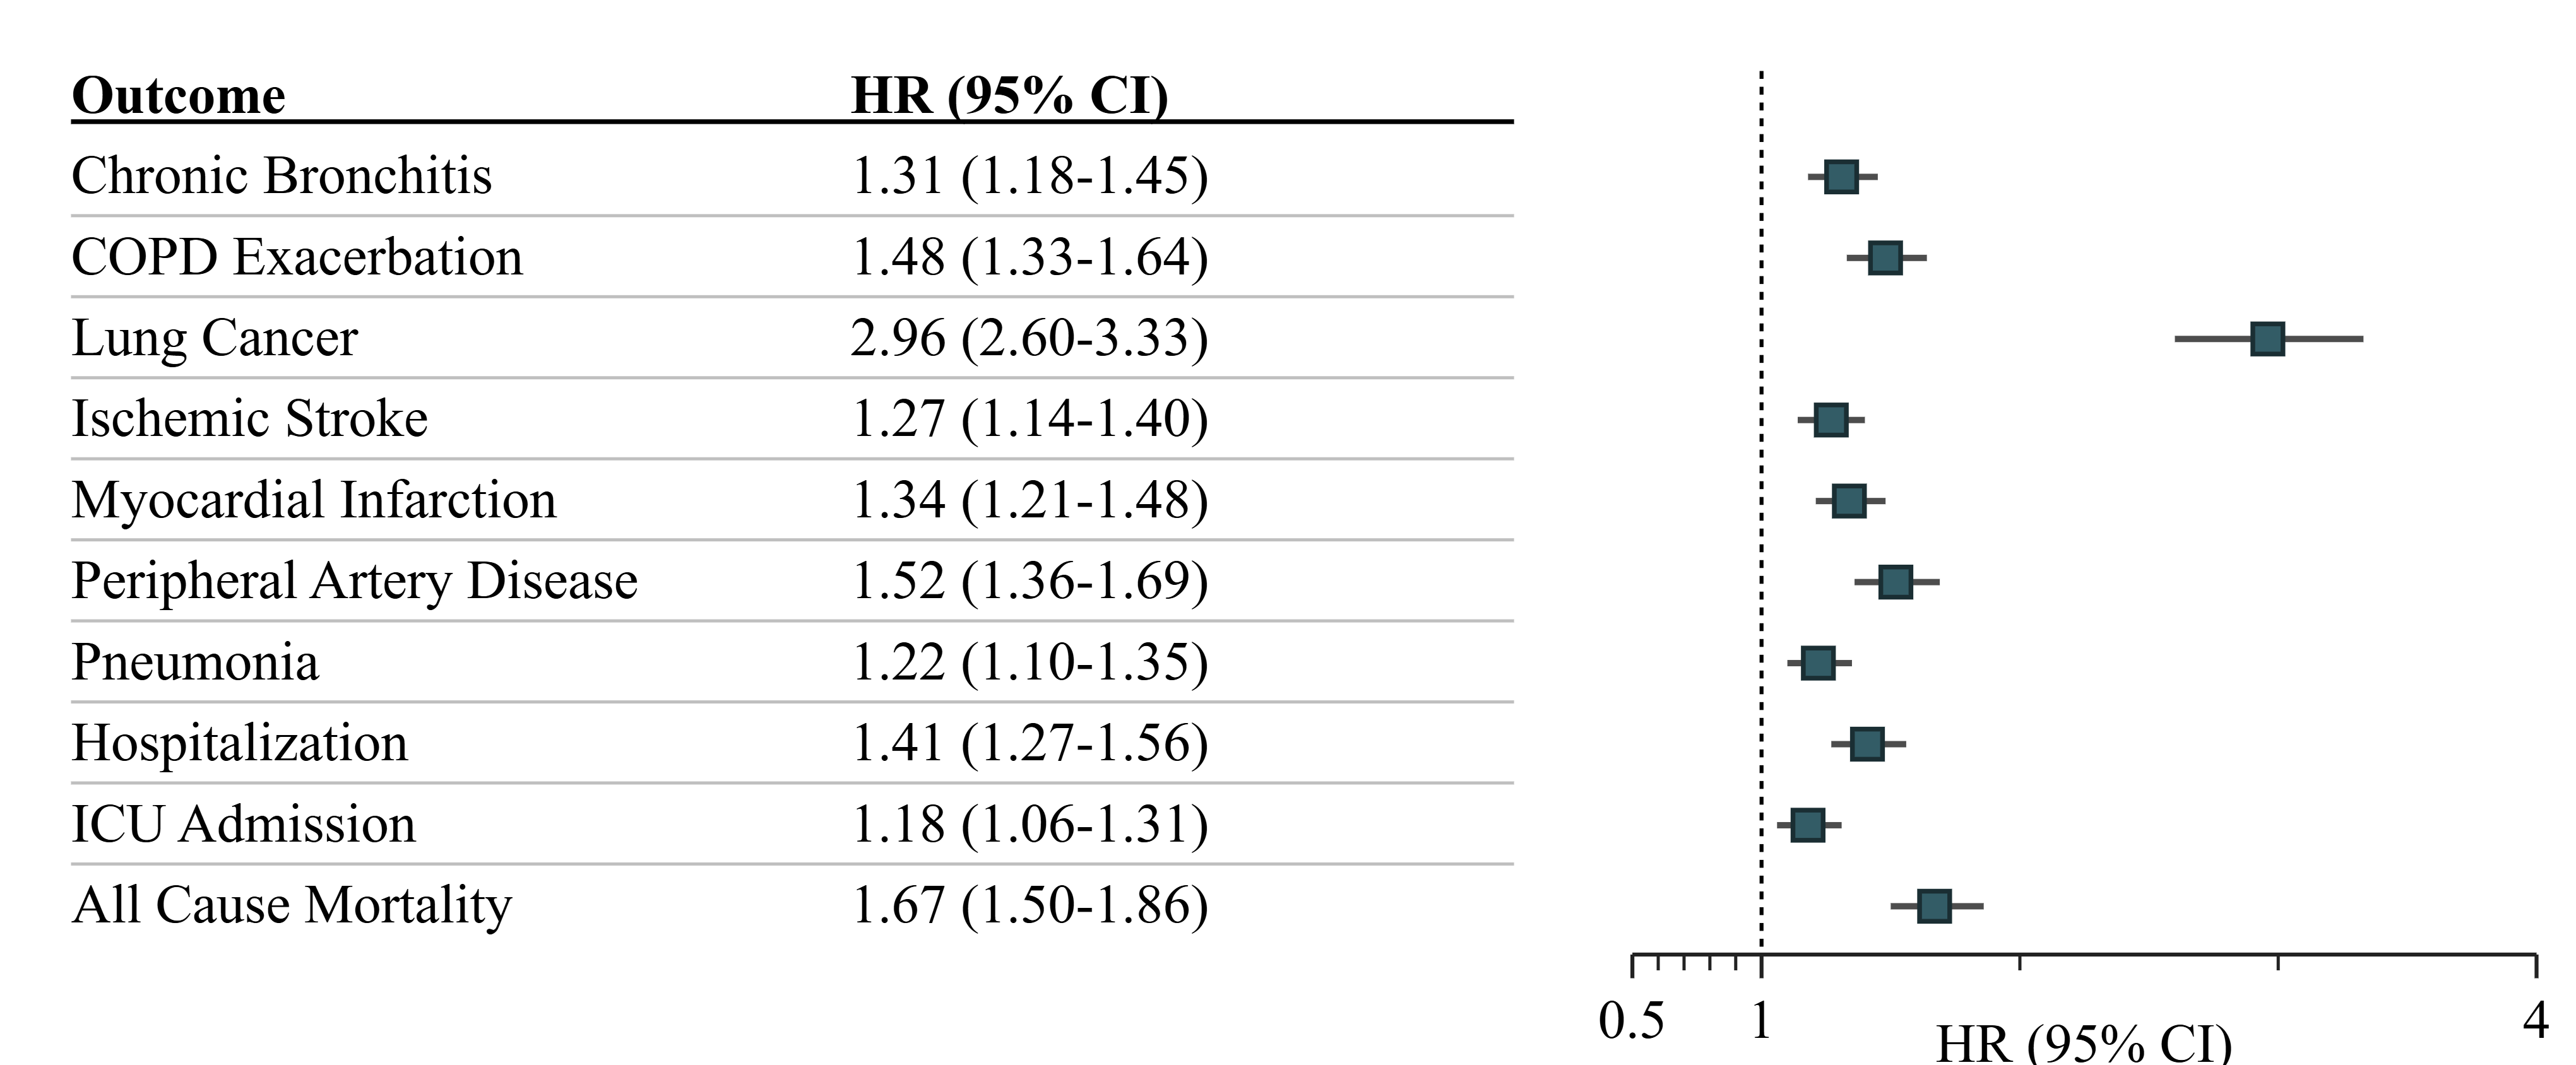
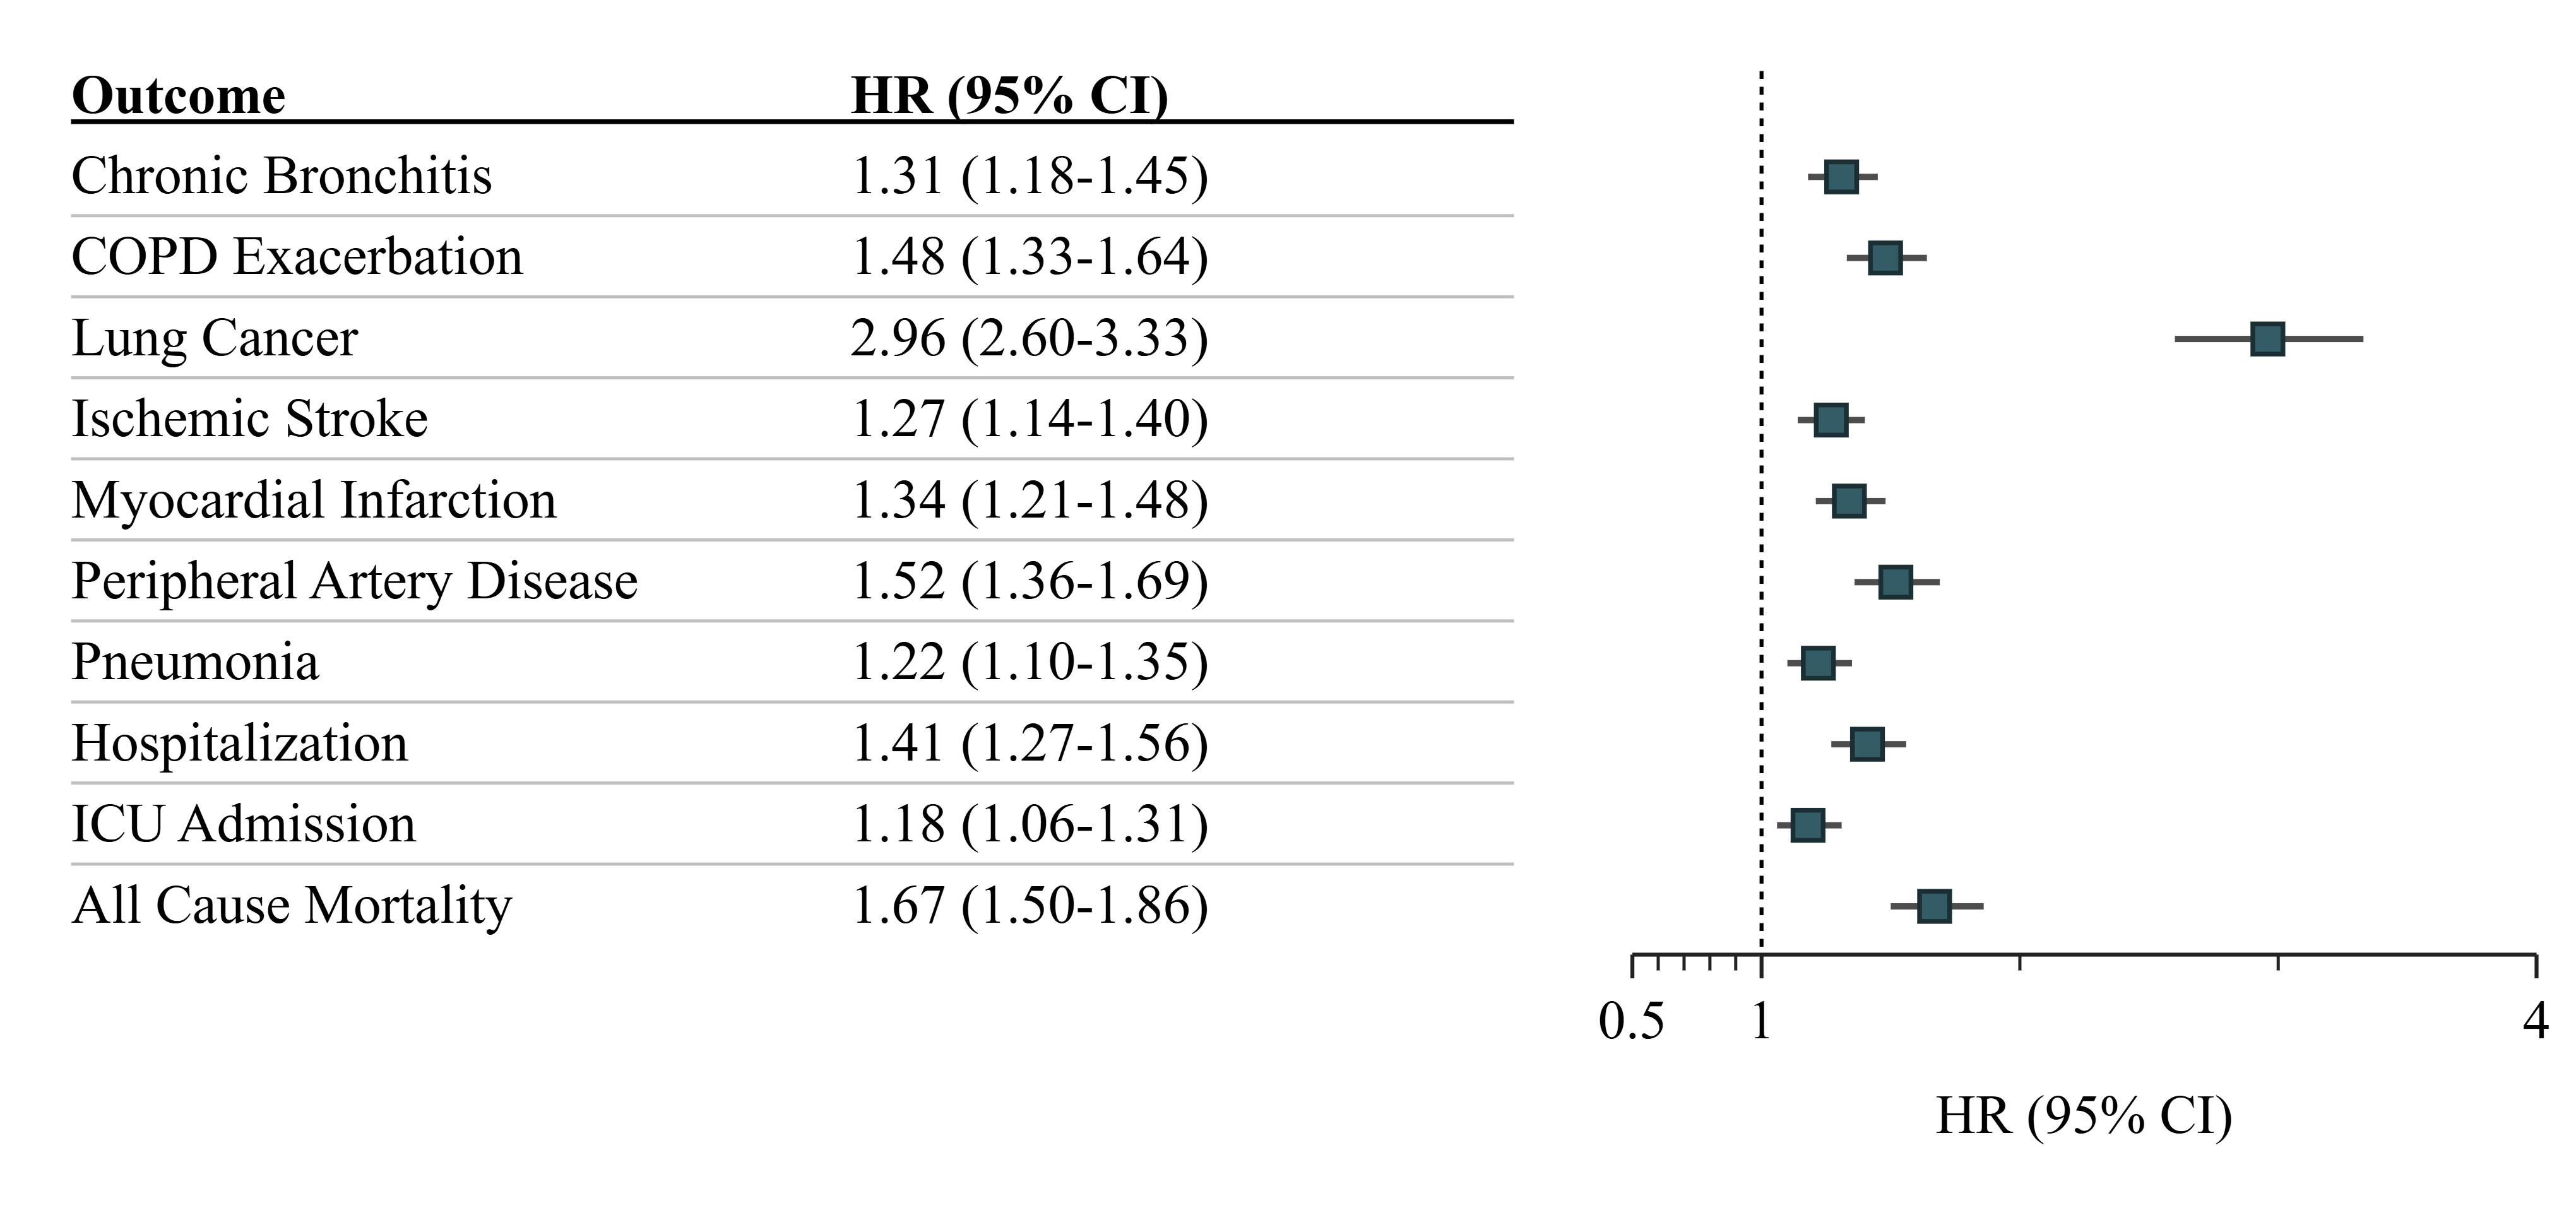
Update README image and export buttons

diff --git a/docs/app.js b/docs/app.js
@@ -23,7 +23,7 @@ document.addEventListener("DOMContentLoaded", () => {
     "tableWidth", "fontSize", "markerSize", "figureWidth", "rowSpacing",
     "forestPlot", "dataBody", "plotFrame", "statusText", "fileInput",
     "tableWidthValue", "fontSizeValue", "markerSizeValue", "figureWidthValue", "rowSpacingValue",
-    "loadExampleBtn", "downloadPngTopBtn", "resetAxisBtn", "downloadPdfBtn",
+    "loadExampleBtn", "downloadPdfTopBtn", "resetAxisBtn",
     "downloadPngBtn", "downloadTiffBtn", "downloadSvgBtn", "templateBtn", "addRowBtn",
   ].forEach((id) => {
     els[id] = document.getElementById(id);
@@ -84,8 +84,7 @@ function bindEvents() {
   els.fileInput.addEventListener("change", handleFile);
   els.downloadSvgBtn.addEventListener("click", downloadSvg);
   els.downloadPngBtn.addEventListener("click", () => downloadPng());
-  els.downloadPngTopBtn.addEventListener("click", () => downloadPng());
-  els.downloadPdfBtn.addEventListener("click", downloadPdf);
+  els.downloadPdfTopBtn.addEventListener("click", downloadPdf);
   els.downloadTiffBtn.addEventListener("click", downloadTiff);
 }
 

diff --git a/docs/index.html b/docs/index.html
@@ -16,7 +16,7 @@
       </div>
       <div class="hero-actions">
         <button class="ghost-button" id="loadExampleBtn" type="button">Load example</button>
-        <button class="primary-button" id="downloadPngTopBtn" type="button">Download PNG</button>
+        <button class="primary-button" id="downloadPdfTopBtn" type="button">Download PDF</button>
       </div>
     </header>
 
@@ -100,7 +100,6 @@
           <svg id="forestPlot" role="img" aria-label="Forest plot preview"></svg>
         </div>
         <div class="download-grid">
-          <button id="downloadPdfBtn" type="button">PDF</button>
           <button id="downloadPngBtn" type="button">PNG</button>
           <button id="downloadTiffBtn" type="button">TIFF</button>
           <button id="downloadSvgBtn" type="button">SVG</button>

diff --git a/docs/styles.css b/docs/styles.css
@@ -237,7 +237,7 @@ h2 {
 
 .download-grid {
   display: grid;
-  grid-template-columns: repeat(4, minmax(0, 1fr));
+  grid-template-columns: repeat(3, minmax(0, 1fr));
   gap: 12px;
   margin-top: 14px;
 }